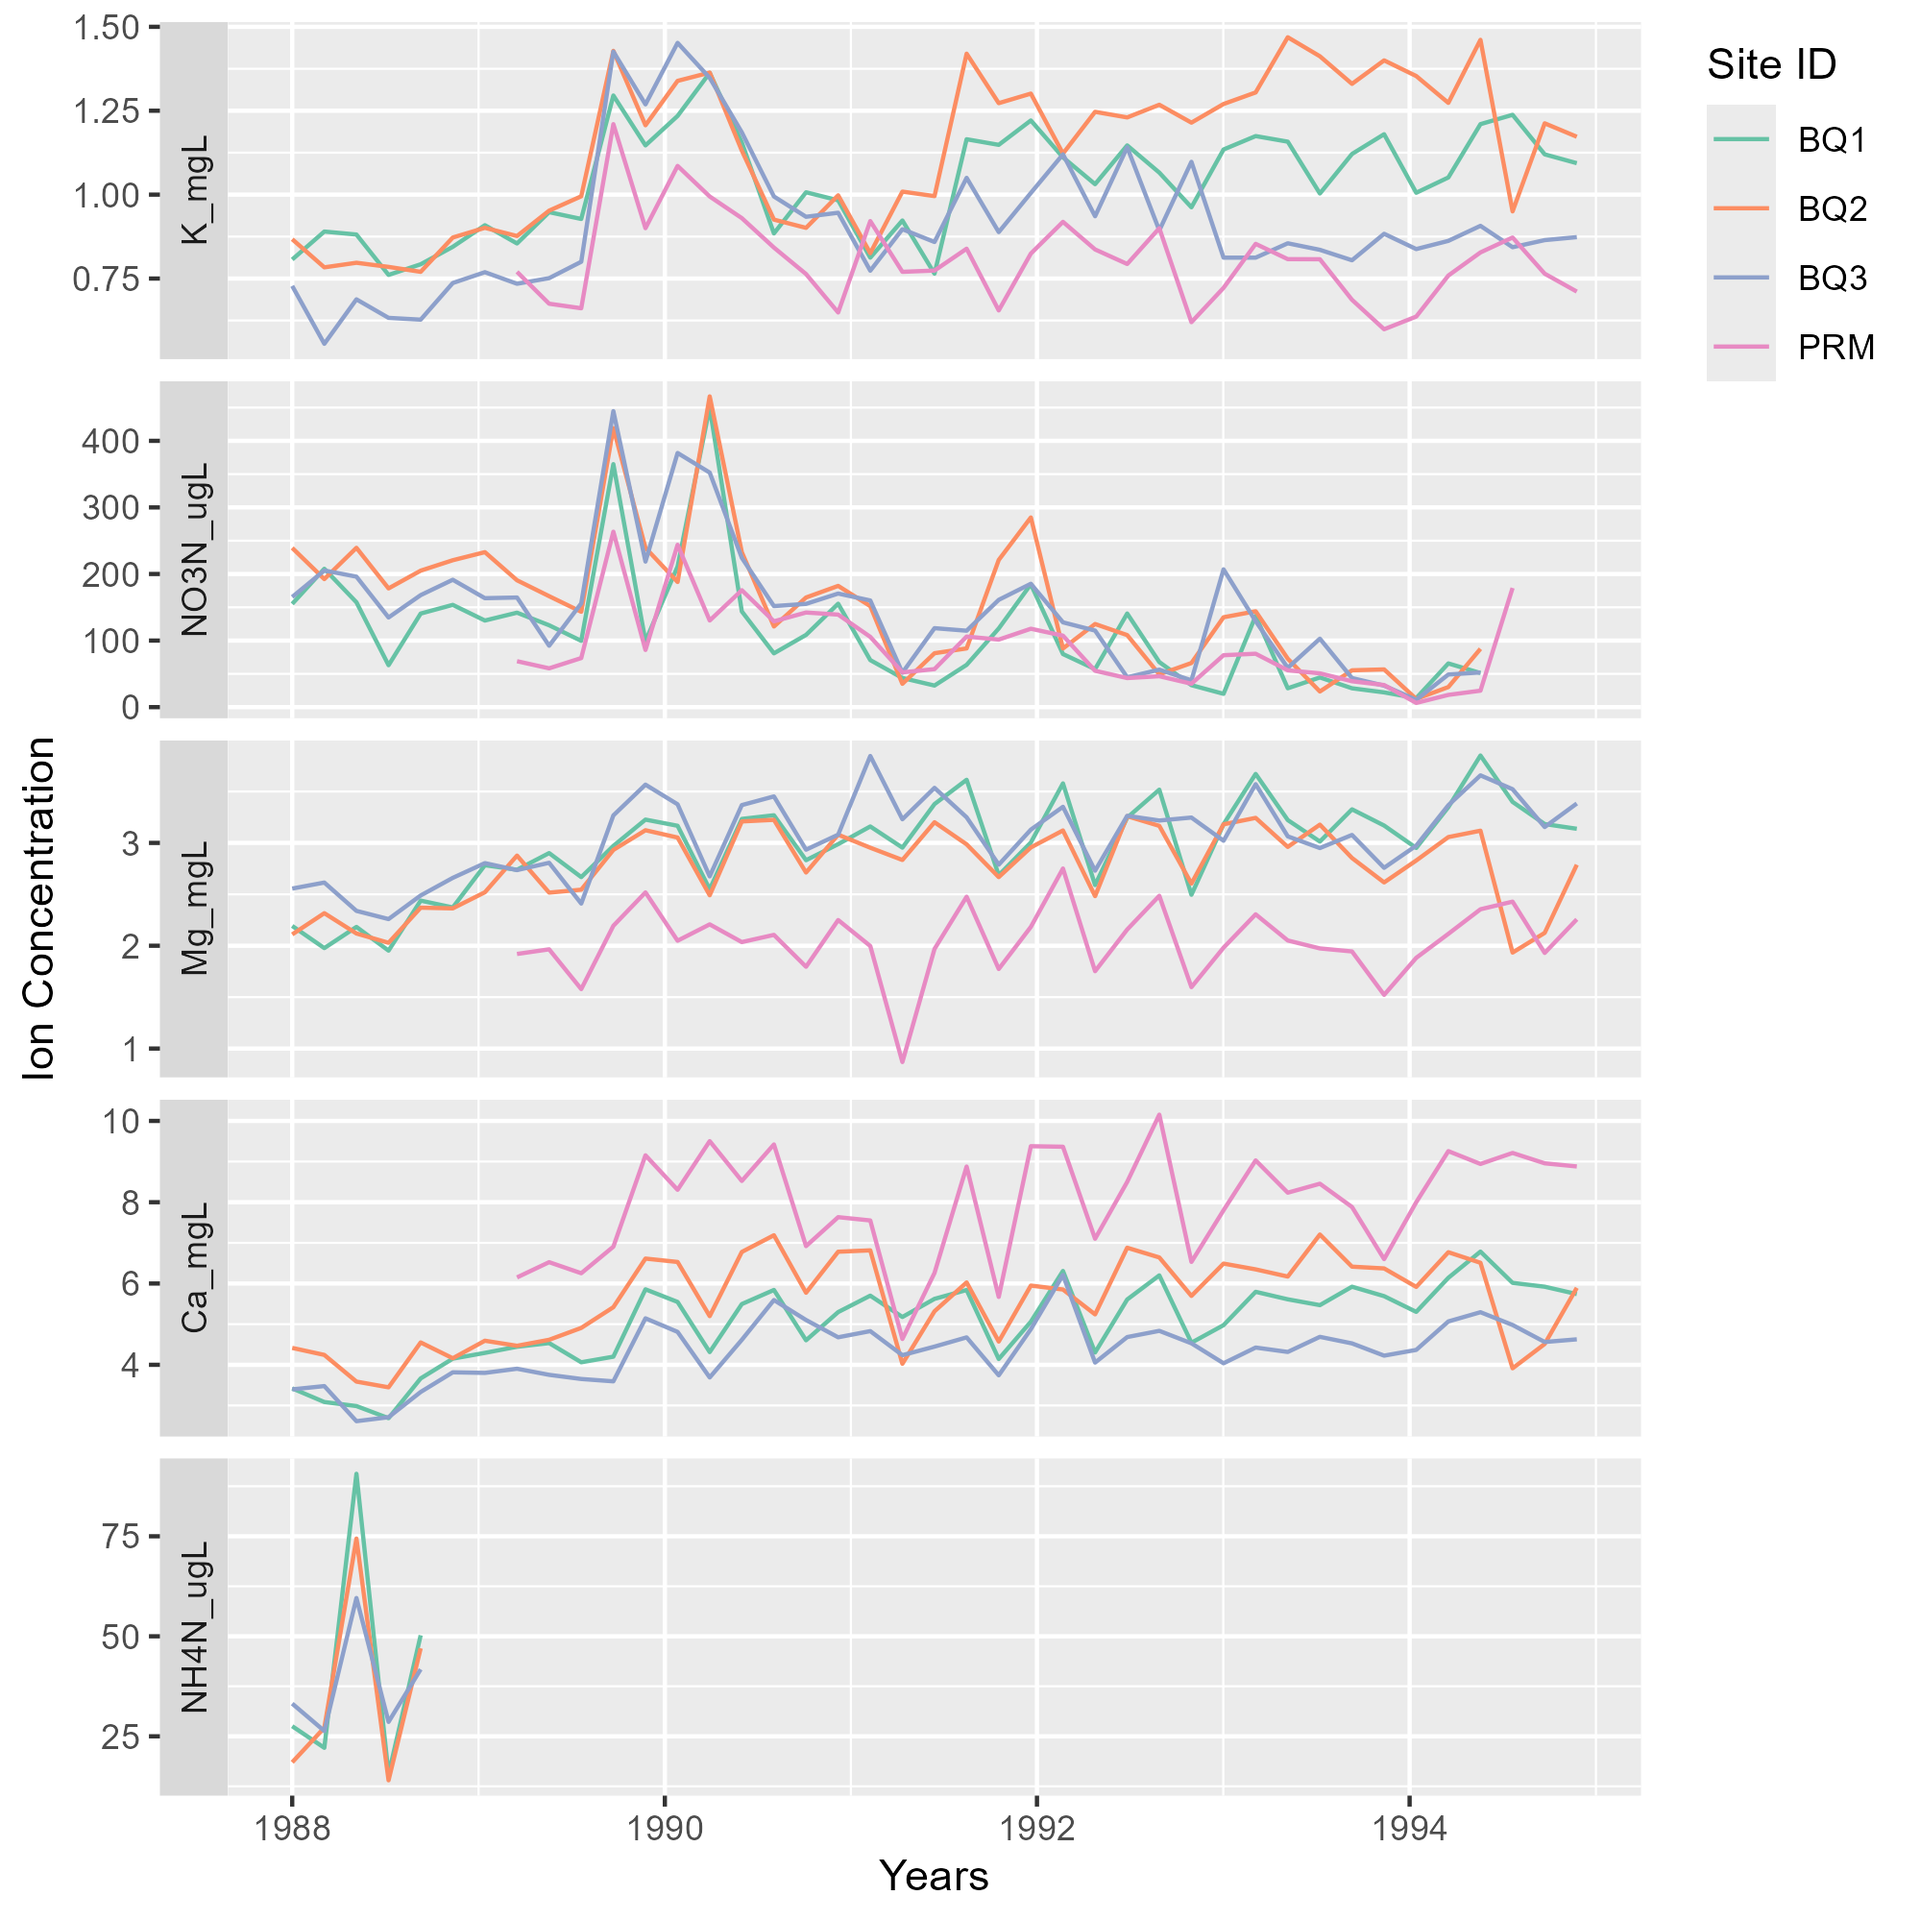
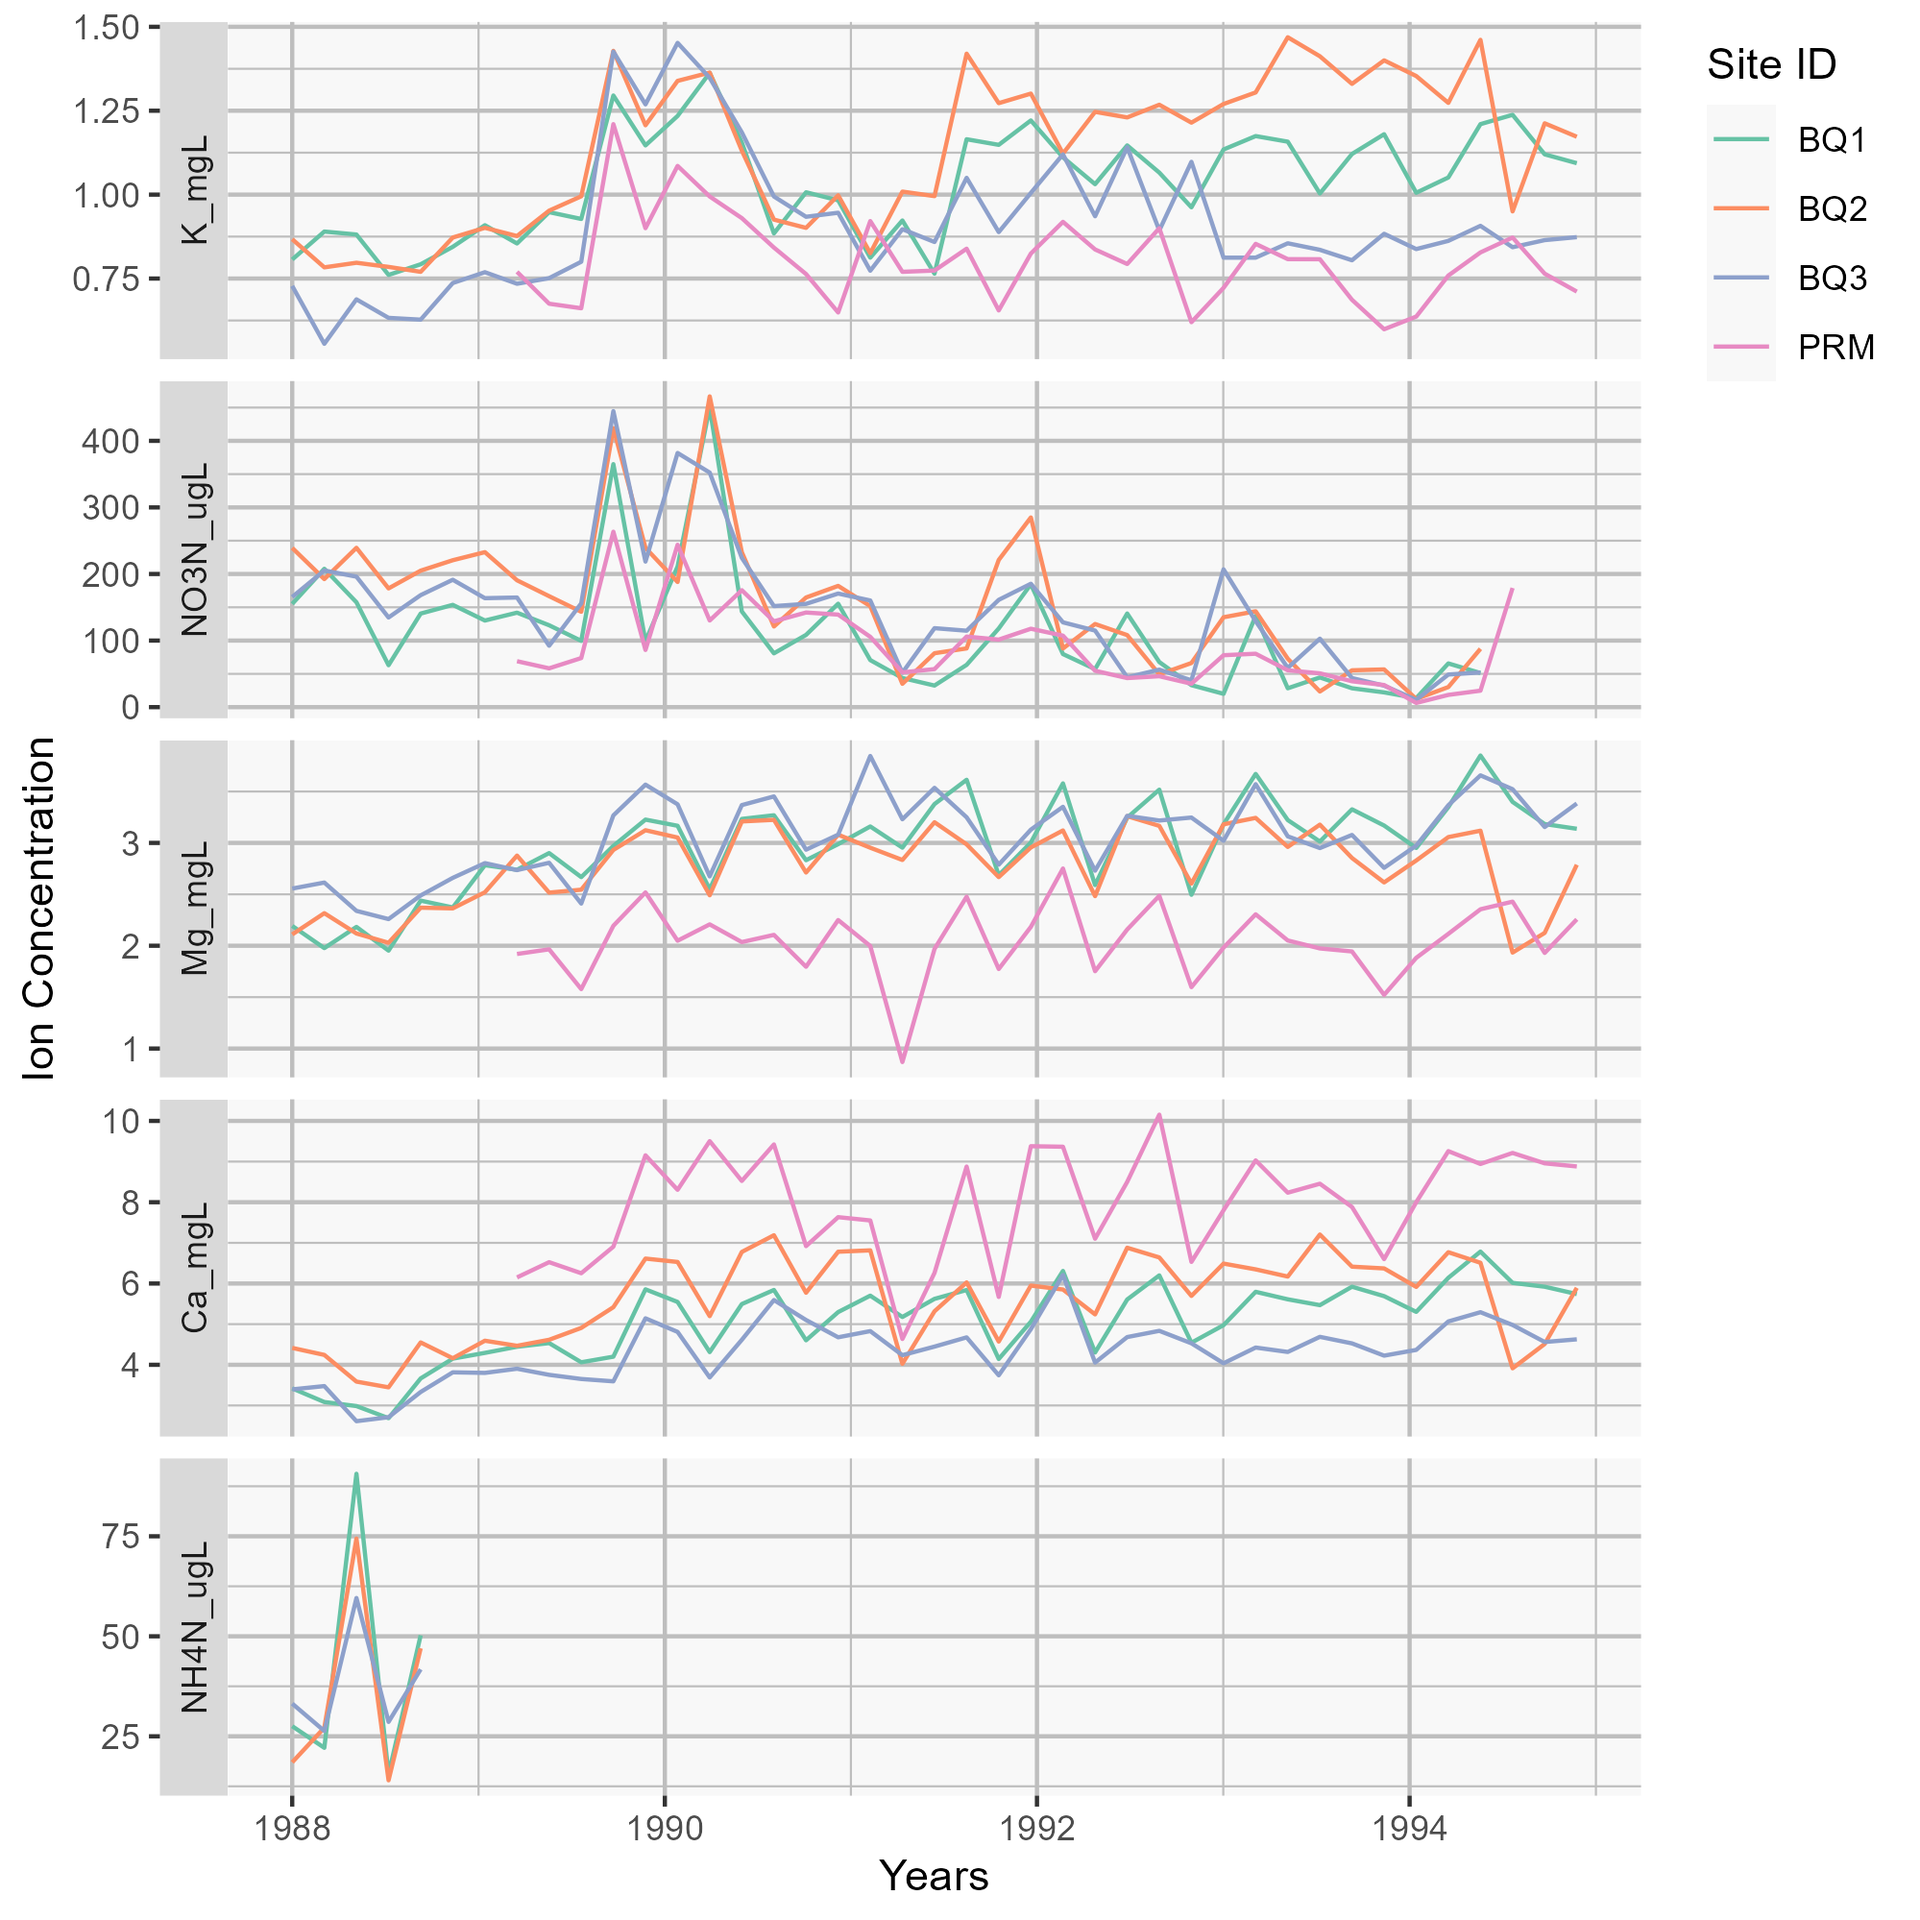
add final edits to repository files

diff --git a/docs/paper.html b/docs/paper.html
@@ -156,18 +156,23 @@ date (1): window_start
 <span id="cb5-11"><a href="#cb5-11" aria-hidden="true" tabindex="-1"></a>  <span class="fu">labs</span>(<span class="at">x =</span> <span class="st">"Years"</span>, <span class="at">y =</span> <span class="st">"Ion Concentration"</span>, <span class="at">color =</span> <span class="st">"Site ID"</span>) <span class="sc">+</span></span>
 <span id="cb5-12"><a href="#cb5-12" aria-hidden="true" tabindex="-1"></a>  <span class="fu">theme</span>(<span class="at">legend.justification =</span> <span class="fu">c</span>(<span class="st">"right"</span>, <span class="st">"top"</span>)) <span class="sc">+</span></span>
 <span id="cb5-13"><a href="#cb5-13" aria-hidden="true" tabindex="-1"></a>  <span class="fu">scale_color_discrete</span>(<span class="at">palette =</span> <span class="st">"Set2"</span>) <span class="sc">+</span></span>
-<span id="cb5-14"><a href="#cb5-14" aria-hidden="true" tabindex="-1"></a>  <span class="fu">facet_grid</span>(</span>
-<span id="cb5-15"><a href="#cb5-15" aria-hidden="true" tabindex="-1"></a>    <span class="fu">vars</span>(<span class="fu">fct_relevel</span>(</span>
-<span id="cb5-16"><a href="#cb5-16" aria-hidden="true" tabindex="-1"></a>      <span class="fu">as_factor</span>(Figure_3_Reproduction<span class="sc">$</span>ion),</span>
-<span id="cb5-17"><a href="#cb5-17" aria-hidden="true" tabindex="-1"></a>      <span class="st">"K_mgL"</span>,</span>
-<span id="cb5-18"><a href="#cb5-18" aria-hidden="true" tabindex="-1"></a>      <span class="st">"NO3N_ugL"</span>,</span>
-<span id="cb5-19"><a href="#cb5-19" aria-hidden="true" tabindex="-1"></a>      <span class="st">"Mg_mgL"</span>,</span>
-<span id="cb5-20"><a href="#cb5-20" aria-hidden="true" tabindex="-1"></a>      <span class="st">"Ca_mgL"</span>,</span>
-<span id="cb5-21"><a href="#cb5-21" aria-hidden="true" tabindex="-1"></a>      <span class="st">"NH4N_ugL"</span></span>
-<span id="cb5-22"><a href="#cb5-22" aria-hidden="true" tabindex="-1"></a>    )),</span>
-<span id="cb5-23"><a href="#cb5-23" aria-hidden="true" tabindex="-1"></a>    <span class="at">scales =</span> <span class="st">"free"</span>,</span>
-<span id="cb5-24"><a href="#cb5-24" aria-hidden="true" tabindex="-1"></a>    <span class="at">switch =</span> <span class="st">"y"</span></span>
-<span id="cb5-25"><a href="#cb5-25" aria-hidden="true" tabindex="-1"></a>  )</span></code></pre></div><button title="Copy to Clipboard" class="code-copy-button"><i class="bi"></i></button></div>
+<span id="cb5-14"><a href="#cb5-14" aria-hidden="true" tabindex="-1"></a>  <span class="fu">theme</span>(</span>
+<span id="cb5-15"><a href="#cb5-15" aria-hidden="true" tabindex="-1"></a>    <span class="at">panel.background =</span> <span class="fu">element_rect</span>(<span class="at">fill =</span> <span class="st">"#f8f8f8"</span>),</span>
+<span id="cb5-16"><a href="#cb5-16" aria-hidden="true" tabindex="-1"></a>    <span class="at">panel.grid.major =</span> <span class="fu">element_line</span>(<span class="at">color =</span> <span class="st">"grey"</span>),</span>
+<span id="cb5-17"><a href="#cb5-17" aria-hidden="true" tabindex="-1"></a>    <span class="at">panel.grid.minor =</span> <span class="fu">element_line</span>(<span class="at">color =</span> <span class="st">"grey"</span>)</span>
+<span id="cb5-18"><a href="#cb5-18" aria-hidden="true" tabindex="-1"></a>  ) <span class="sc">+</span></span>
+<span id="cb5-19"><a href="#cb5-19" aria-hidden="true" tabindex="-1"></a>  <span class="fu">facet_grid</span>(</span>
+<span id="cb5-20"><a href="#cb5-20" aria-hidden="true" tabindex="-1"></a>    <span class="fu">vars</span>(<span class="fu">fct_relevel</span>(</span>
+<span id="cb5-21"><a href="#cb5-21" aria-hidden="true" tabindex="-1"></a>      <span class="fu">as_factor</span>(Figure_3_Reproduction<span class="sc">$</span>ion),</span>
+<span id="cb5-22"><a href="#cb5-22" aria-hidden="true" tabindex="-1"></a>      <span class="st">"K_mgL"</span>,</span>
+<span id="cb5-23"><a href="#cb5-23" aria-hidden="true" tabindex="-1"></a>      <span class="st">"NO3N_ugL"</span>,</span>
+<span id="cb5-24"><a href="#cb5-24" aria-hidden="true" tabindex="-1"></a>      <span class="st">"Mg_mgL"</span>,</span>
+<span id="cb5-25"><a href="#cb5-25" aria-hidden="true" tabindex="-1"></a>      <span class="st">"Ca_mgL"</span>,</span>
+<span id="cb5-26"><a href="#cb5-26" aria-hidden="true" tabindex="-1"></a>      <span class="st">"NH4N_ugL"</span></span>
+<span id="cb5-27"><a href="#cb5-27" aria-hidden="true" tabindex="-1"></a>    )),</span>
+<span id="cb5-28"><a href="#cb5-28" aria-hidden="true" tabindex="-1"></a>    <span class="at">scales =</span> <span class="st">"free"</span>,</span>
+<span id="cb5-29"><a href="#cb5-29" aria-hidden="true" tabindex="-1"></a>    <span class="at">switch =</span> <span class="st">"y"</span></span>
+<span id="cb5-30"><a href="#cb5-30" aria-hidden="true" tabindex="-1"></a>  )</span></code></pre></div><button title="Copy to Clipboard" class="code-copy-button"><i class="bi"></i></button></div>
 <div class="cell-output cell-output-stderr">
 <pre><code>Warning: Removed 183 rows containing missing values or values outside the scale range
 (`geom_line()`).</code></pre>
